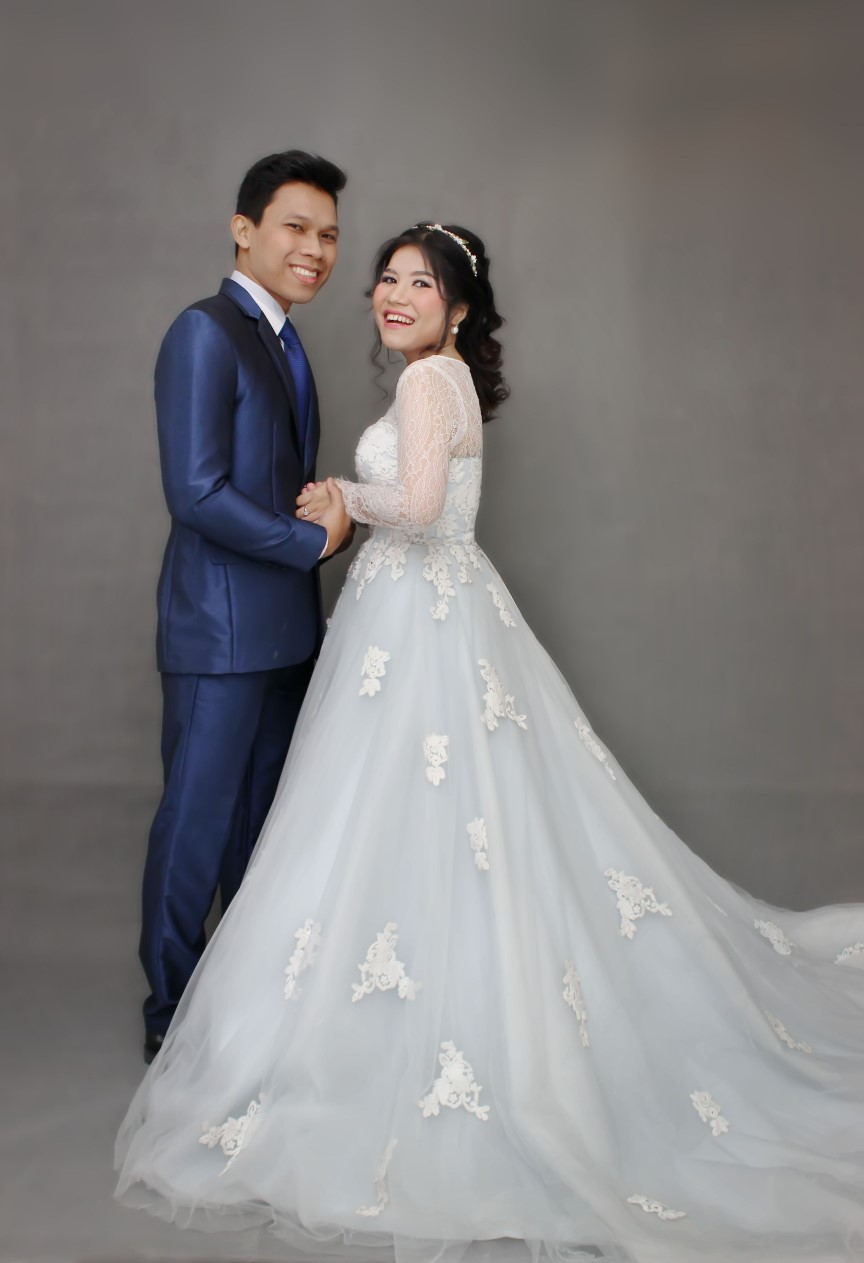
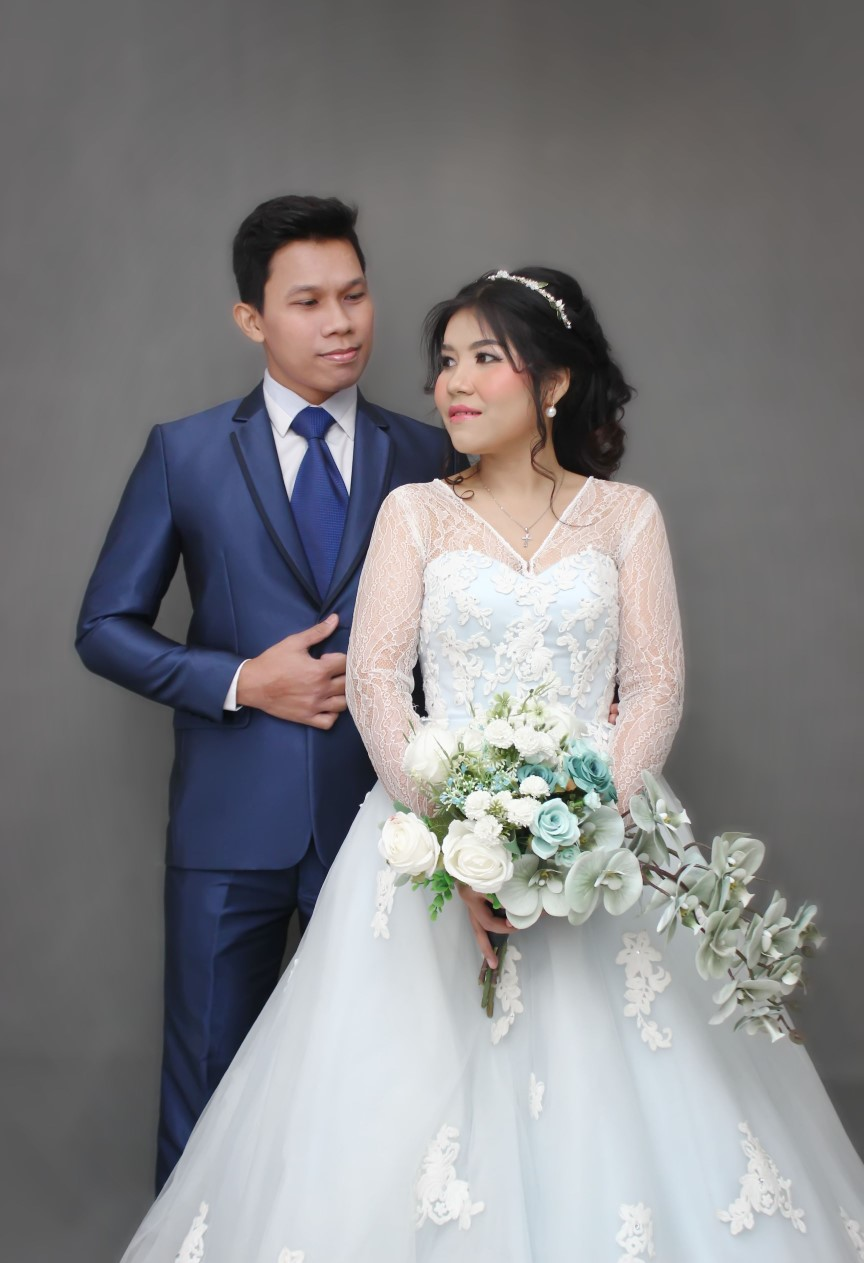
add image gallery

diff --git a/invitation.html b/invitation.html
@@ -252,6 +252,12 @@
                         <i class="fa fa-2x fa-plus text-white"></i>
                     </a>
                 </div>
+                <div class="gallery-item">
+                    <img class="img-fluid w-100" src="img/gallery-10.jpg" alt="">
+                    <a href="img/gallery-10.jpg" data-lightbox="gallery">
+                        <i class="fa fa-2x fa-plus text-white"></i>
+                    </a>
+                </div>
             </div>
         </div>
         <!-- Gallery End -->
